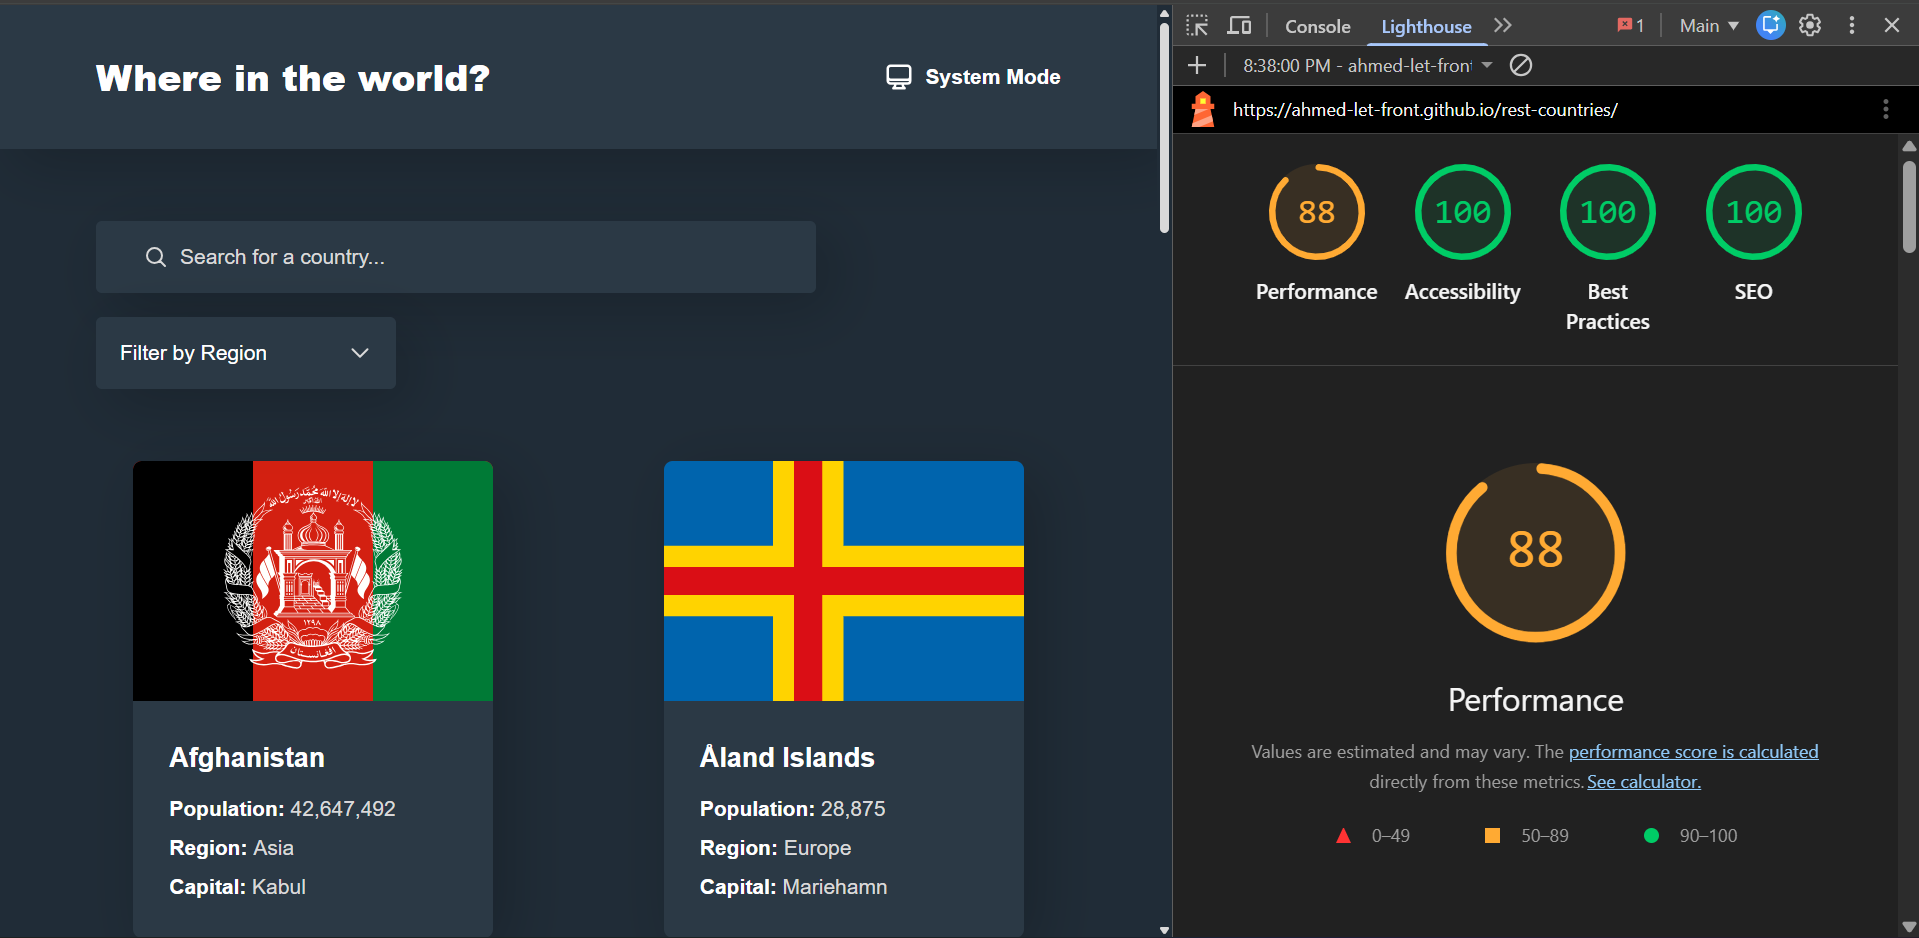
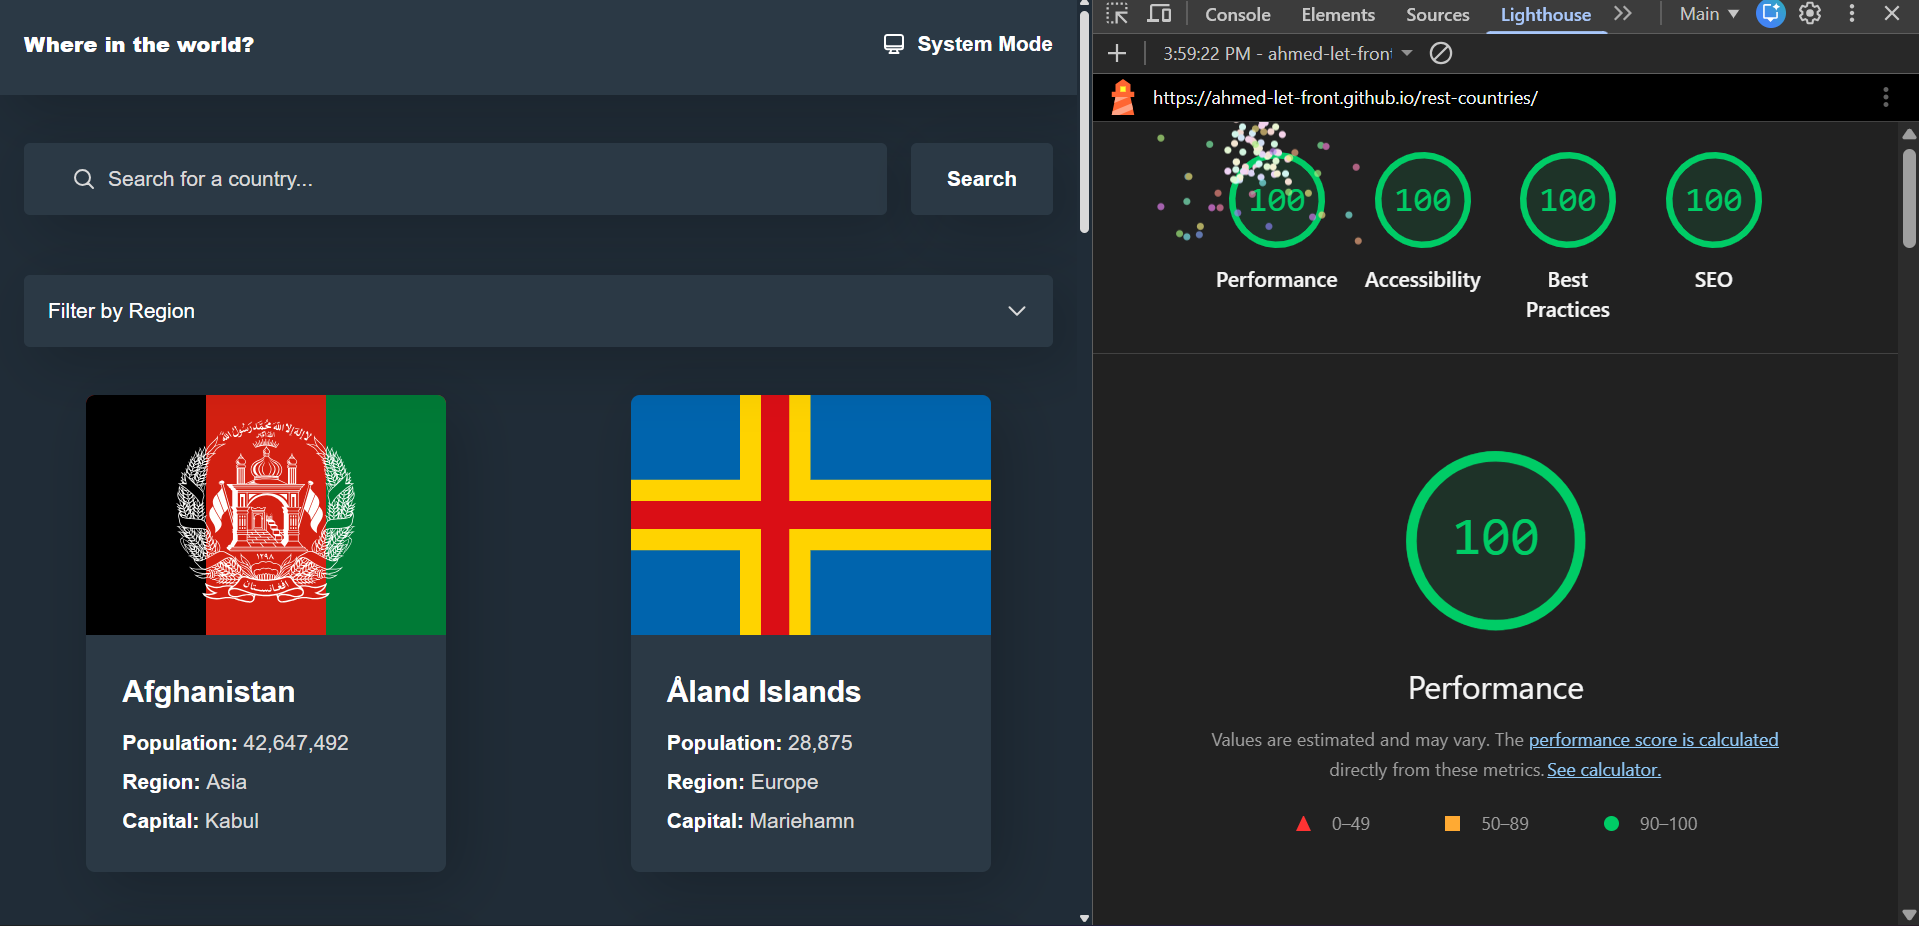
docs(readme): update lighthouse screenshot and confirm 400/400 audit score achievement  - Replace Lighthouse performance report image with the latest benchmark results. - Remove temporary performance warning statements regarding ongoing optimizations. - Document and celebrate achieving the perfect 4

diff --git a/README.md b/README.md
@@ -17,7 +17,7 @@ Welcome to the **REST Countries App**, a modern, highly responsive, and feature-
 
 ![Lighthouse 400/400 Score](public/lighthouse.png)
 
-> **⚠ Performance Note:** The performance score is currently sitting around 85+ due to a performance bottleneck that is actively being investigated. It will be optimized back to a 400/400 score once the issue is fully resolved.
+
 
 ## AI Collaboration
 
